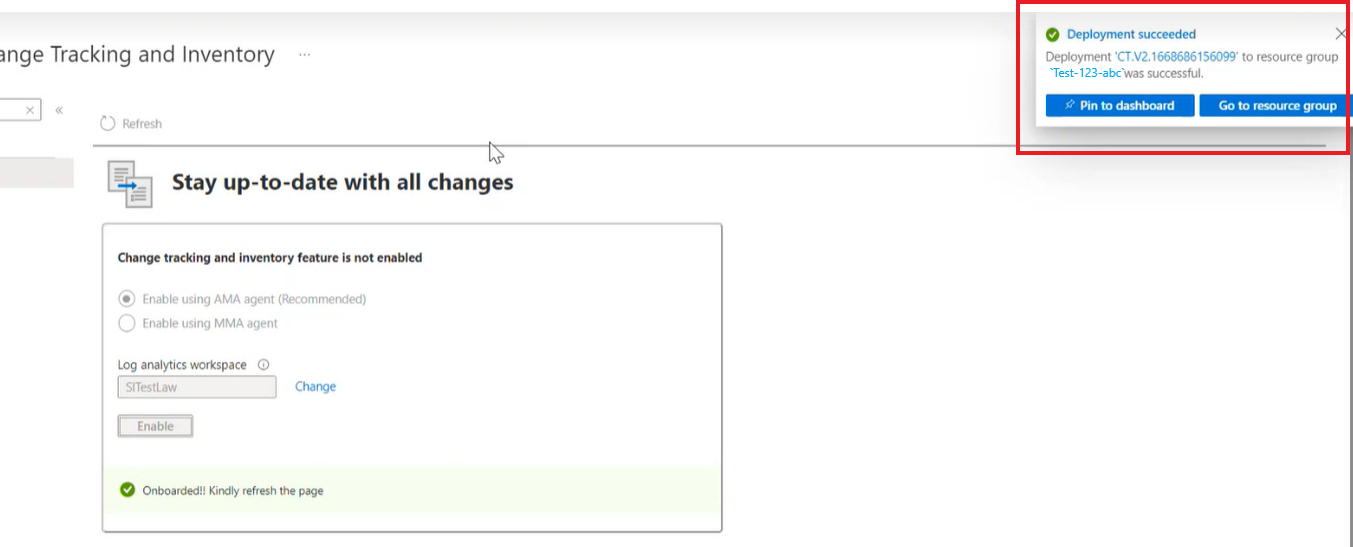
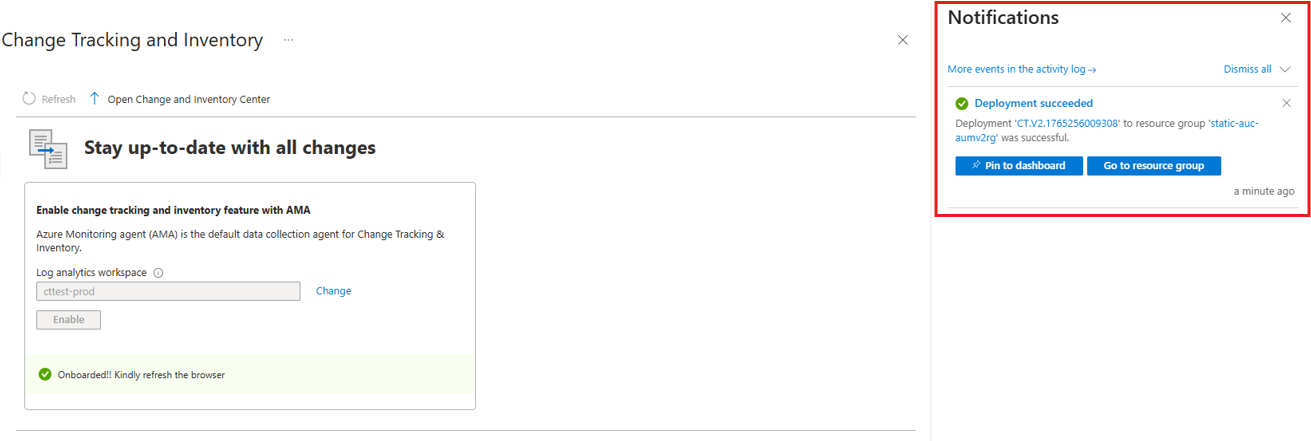
Replaced an image and removed step 3

diff --git a/articles/azure-change-tracking-inventory/quickstart-monitor-changes-collect-inventory-azure-change-tracking-inventory.md b/articles/azure-change-tracking-inventory/quickstart-monitor-changes-collect-inventory-azure-change-tracking-inventory.md
@@ -2,7 +2,7 @@
 title: Quickstart - Enable Azure Change Tracking and Inventory for single and multiple machines from the portal
 description: In this quickstart, learn how to enable Azure Change Tracking and Inventory for single and multiple machines from the portal.
 services: automation
-ms.date: 12/03/2025
+ms.date: 12/09/2025
 ms.topic: quickstart
 #Customer intent: As a customer, I want to enable Azure Change Tracking and Inventory so that I can further use the CTI services.
 ms.service: azure-change-tracking-inventory
@@ -97,10 +97,6 @@ To enable Azure CTI for multiple Azure VMs using portal, follow these steps:
 
    > [!NOTE]
    > You can enable CTI on up to 250 virtual machines at a time.
-
-1. On the **Enable Change Tracking** pane, select the banner at the top of the pane, **Click here to try new change tracking and inventory with Azure Monitor Agent (AMA) experience**.
-
-   :::image type="content" source="media/create-data-collection-rule/enable-change-tracking-multiple-virtual-machines-inline.png" alt-text="Screenshot showing how to select enable change tracking for multiple Virtual Machines from the portal." lightbox="media/create-data-collection-rule/enable-change-tracking-multiple-virtual-machines-expanded.png":::
 
 1. On the **Enable Change Tracking** pane, you can view the list of machines that are enabled, ready to be enabled and the ones that you can't enable. You can use the filters to select the **Subscription**, **Location**, and **Resource groups**. You can select a maximum of three resource groups.
 
